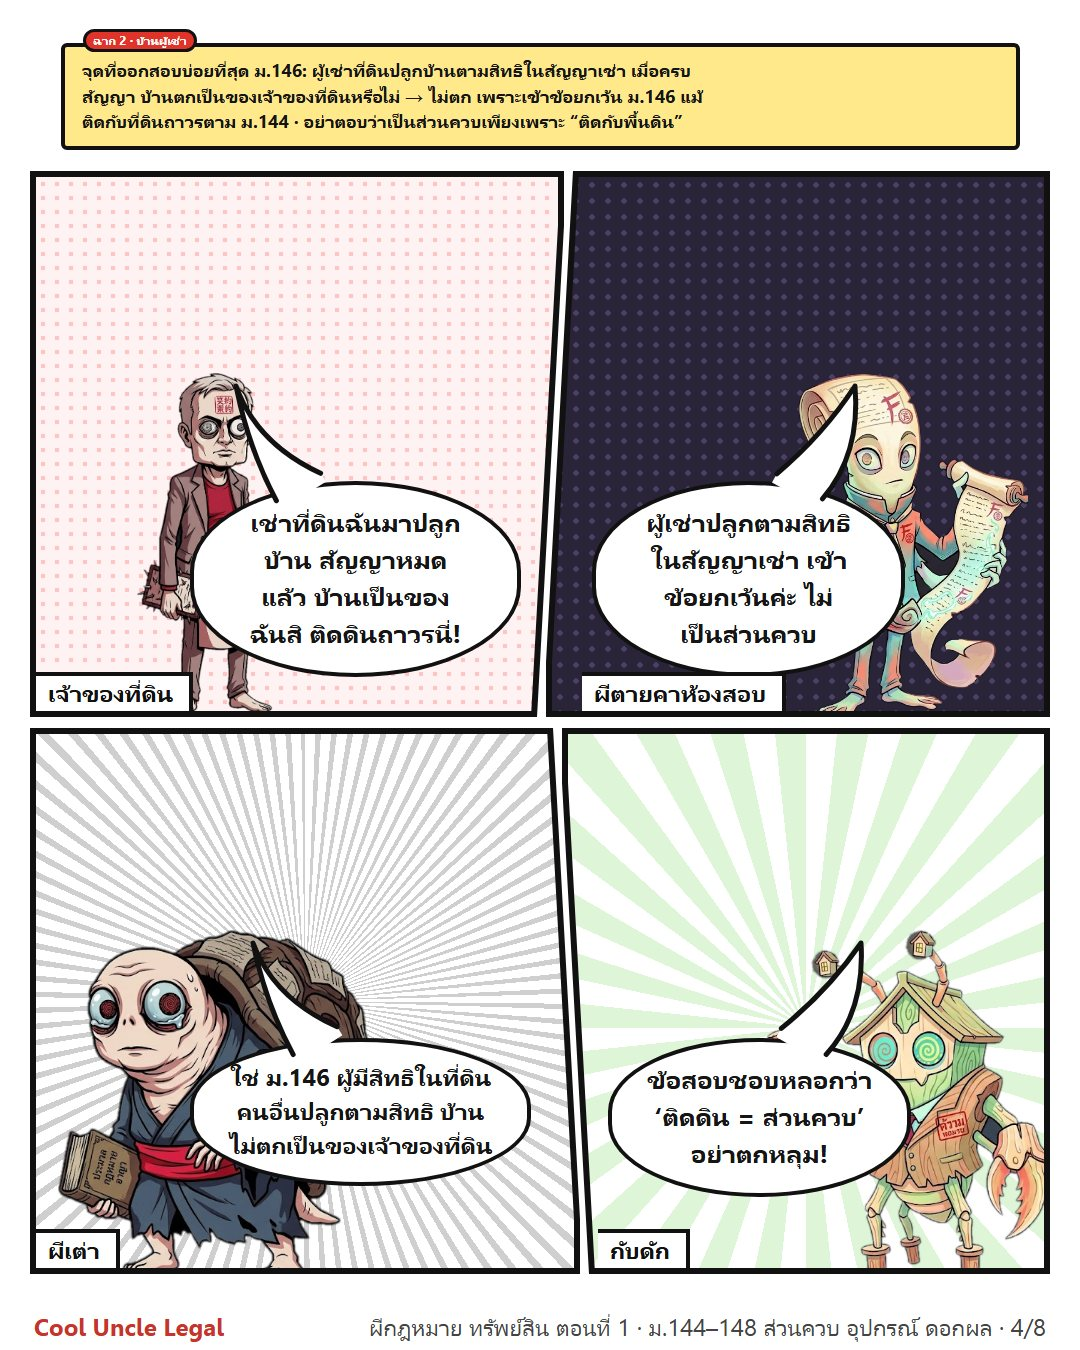
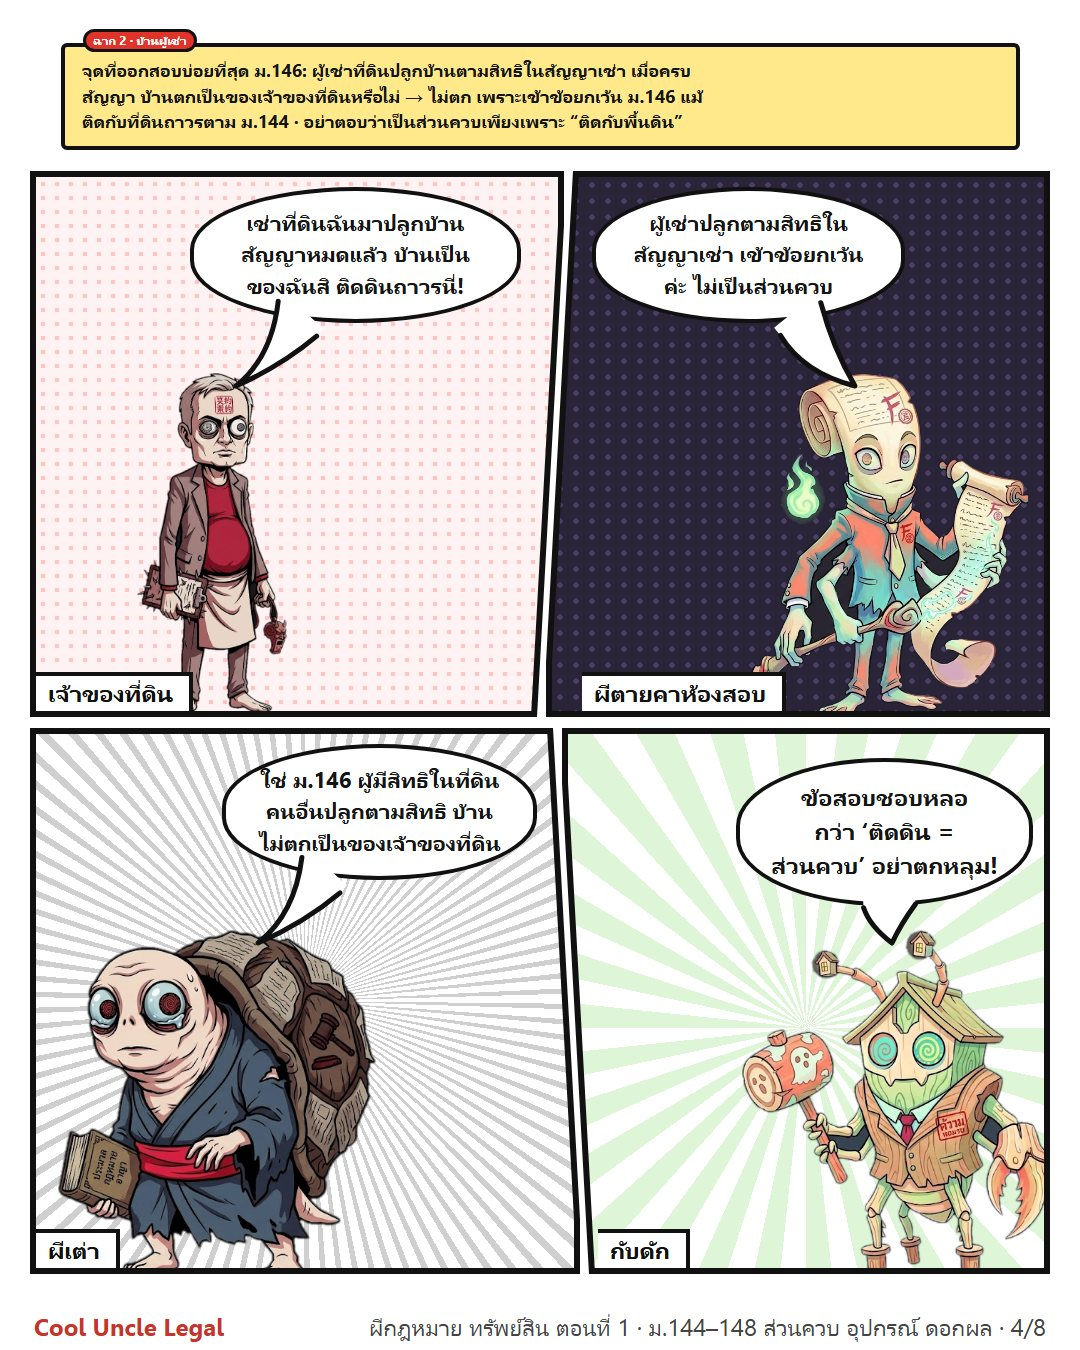
comics: ghost-law series (debt/property/tort) - stop speech bubbles covering faces
Ghost/sprite characters have heads larger than the 30% 'face' box the bubble placer avoided; give them face=0.46 (new optional per-char key in comic_build.manga_bubbles, default unchanged) and shrink character height a bit more when a bubble is long. Re-rendered and republished all 7 episodes; comics-tab cache version 6.

Changed region(s): [[0.1528, 0.1244, 0.5194, 0.9022], [0.55, 0.1244, 0.8556, 0.4978], [0.55, 0.56, 0.9778, 0.9022]]

diff --git a/comics-tab.js b/comics-tab.js
@@ -5,7 +5,7 @@
      ComicsTab.openReader('crimprowar', 1, 0)   เปิดโหมดอ่านเต็มจอที่ตอน/หน้าที่ต้องการ (หน้า 0 = หน้าแรก)
    โหมดอ่าน: ทีละหน้า (← → / คลิกซ้าย-ขวา / ปัด) หรือเลื่อนต่อเนื่อง · จำตอนและหน้าที่อ่านค้างไว้ · จบตอนแล้วไปตอนถัดไปได้ทันที */
 (function(){
-  var V = '5';
+  var V = '6';
   var css = [
     '.ct-tabs{display:flex;gap:8px;margin:22px 0 18px;flex-wrap:wrap}',
     '.ct-tab{flex:1;min-width:150px;background:var(--card,#fff);border:1px solid var(--line,#e2ded3);border-radius:12px;padding:12px 14px;font:inherit;font-size:14px;font-weight:700;color:var(--ink-soft,#5A6072);cursor:pointer;transition:all .15s;text-align:center}',
